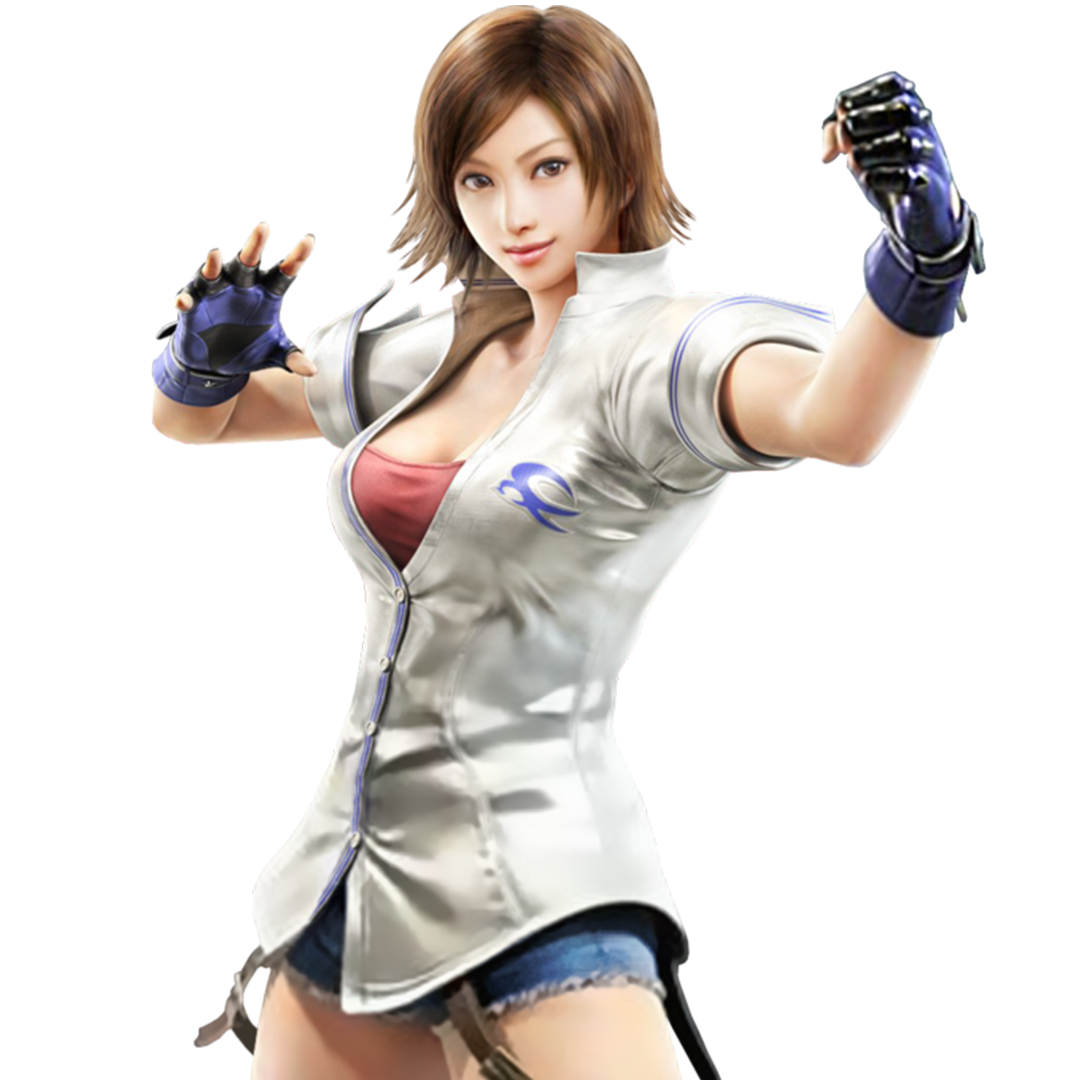
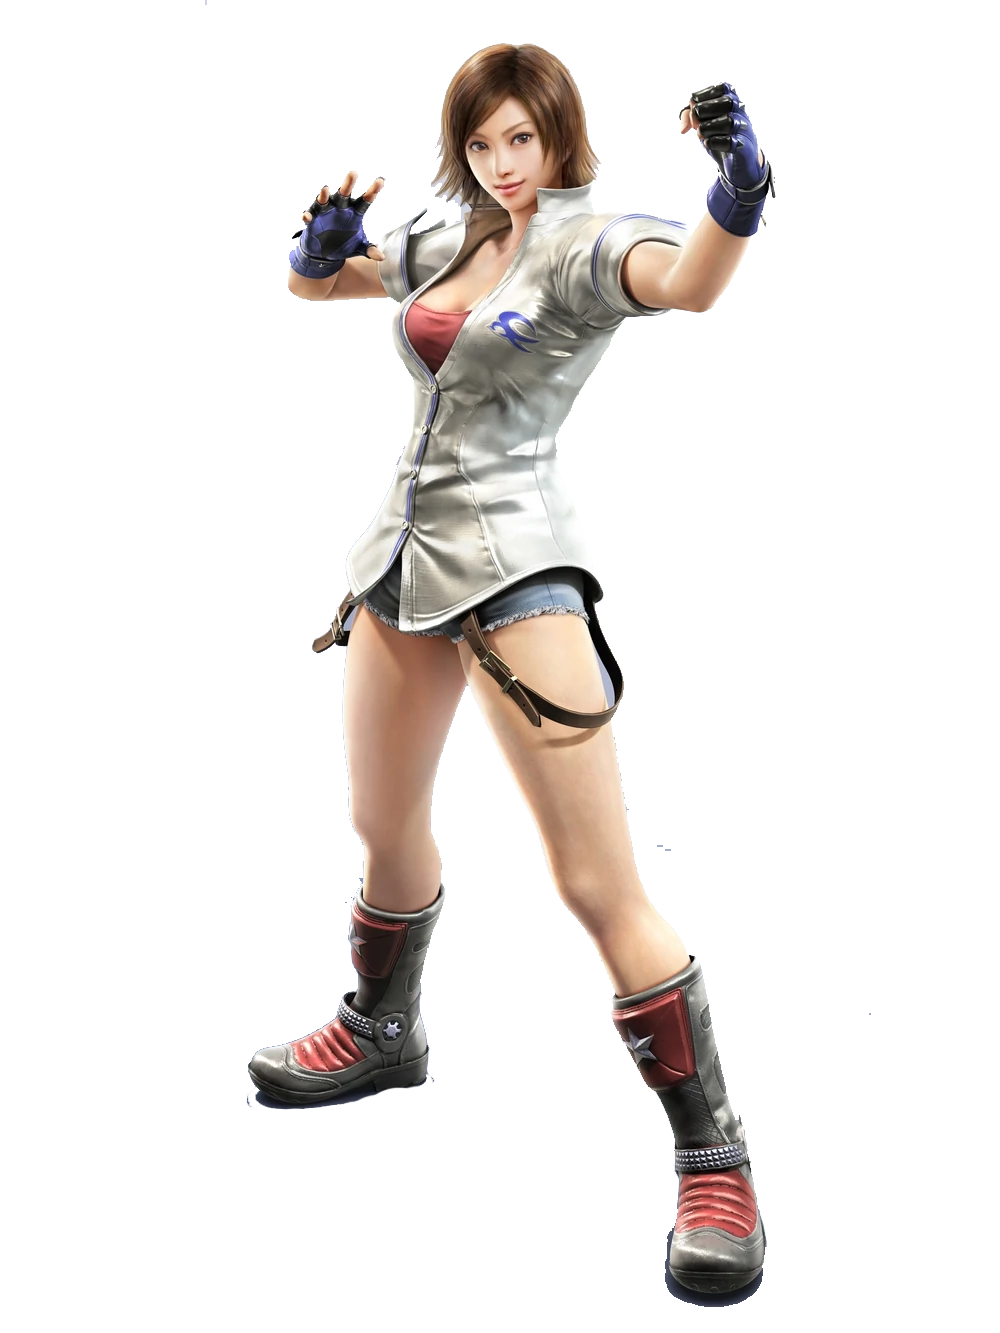
added all pictures
Added all image and thumbnails. Fixed Hwoarang's name

diff --git a/src/data/characters.ts b/src/data/characters.ts
@@ -20,104 +20,104 @@ const characters = [
   {
     id: 3,
     name: "Armor King",
-    image: "/images/characters/",
-    thumb: "/images/characters/",
+    image: "/images/characters/armor.png",
+    thumb: "/images/characters/armor_thumb.png",
   },
   {
     id: 4,
     name: "Asuka",
-    image: "/images/characters/",
-    thumb: "/images/characters/",
+    image: "/images/characters/asuka.png",
+    thumb: "/images/characters/asuka_thumb.png",
   },
   {
     id: 5,
     name: "Bob",
-    image: "/images/characters/",
-    thumb: "/images/characters/",
+    image: "/images/characters/bob.png",
+    thumb: "/images/characters/bob_thumb.png",
   },
   {
     id: 6,
     name: "Bryan",
-    image: "/images/characters/",
-    thumb: "/images/characters/",
+    image: "/images/characters/bryan.png",
+    thumb: "/images/characters/bryan_thumb.png",
   },
   {
     id: 7,
     name: "Claudio",
-    image: "/images/characters/",
-    thumb: "/images/characters/",
+    image: "/images/characters/claudio.png",
+    thumb: "/images/characters/claudio_thumb.png",
   },
   {
     id: 8,
     name: "Devil Jin",
-    image: "/images/characters/",
-    thumb: "/images/characters/",
+    image: "/images/characters/devil.png",
+    thumb: "/images/characters/devil_thumb.png",
   },
   {
     id: 9,
     name: "Dragunov",
-    image: "/images/characters/",
-    thumb: "/images/characters/",
+    image: "/images/characters/dragunov.png",
+    thumb: "/images/characters/dragunov_thumb.png",
   },
   {
     id: 10,
     name: "Eddy",
-    image: "/images/characters/",
-    thumb: "/images/characters/",
+    image: "/images/characters/eddy.png",
+    thumb: "/images/characters/eddy_thumb.png",
   },
   {
     id: 11,
     name: "Eliza",
-    image: "/images/characters/",
-    thumb: "/images/characters/",
+    image: "/images/characters/eliza.png",
+    thumb: "/images/characters/eliza_thumb.png",
   },
   {
     id: 12,
     name: "Fahkumram",
-    image: "/images/characters/",
-    thumb: "/images/characters/",
+    image: "/images/characters/fahkumram.png",
+    thumb: "/images/characters/fahkumram_thumb.png",
   },
   {
     id: 13,
     name: "Feng",
-    image: "/images/characters/",
-    thumb: "/images/characters/",
+    image: "/images/characters/feng.png",
+    thumb: "/images/characters/feng_thumb.png",
   },
   {
     id: 14,
     name: "Ganryu",
-    image: "/images/characters/",
-    thumb: "/images/characters/",
+    image: "/images/characters/ganryu.png",
+    thumb: "/images/characters/ganryu_thumb.png",
   },
   {
     id: 15,
     name: "Geese",
-    image: "/images/characters/",
-    thumb: "/images/characters/",
+    image: "/images/characters/geese.png",
+    thumb: "/images/characters/geese_thumb.png",
   },
   {
     id: 16,
     name: "Gigas",
-    image: "/images/characters/",
-    thumb: "/images/characters/",
+    image: "/images/characters/gigas.png",
+    thumb: "/images/characters/gigas_thumb.png",
   },
   {
     id: 17,
     name: "Heihachi",
-    image: "/images/characters/",
-    thumb: "/images/characters/",
+    image: "/images/characters/heihachi.png",
+    thumb: "/images/characters/heihachi_thumb.png",
   },
   {
     id: 18,
-    name: "Hwaorang",
-    image: "/images/characters/",
-    thumb: "/images/characters/",
+    name: "Hwoarang",
+    image: "/images/characters/hwoarang.png",
+    thumb: "/images/characters/hwoarang_thumb.png",
   },
   {
     id: 19,
     name: "Jack-7",
-    image: "/images/characters/",
-    thumb: "/images/characters/",
+    image: "/images/characters/jack-7.png",
+    thumb: "/images/characters/jack-7_thumb.png",
   },
   {
     id: 20,
@@ -128,26 +128,26 @@ const characters = [
   {
     id: 21,
     name: "Josie",
-    image: "/images/characters/",
-    thumb: "/images/characters/",
+    image: "/images/characters/josie.png",
+    thumb: "/images/characters/josie_thumb.png",
   },
   {
     id: 22,
     name: "Julia",
-    image: "/images/characters/",
-    thumb: "/images/characters/",
+    image: "/images/characters/julia.png",
+    thumb: "/images/characters/julia_thumb.png",
   },
   {
     id: 23,
     name: "Katarina",
-    image: "/images/characters/",
-    thumb: "/images/characters/",
+    image: "/images/characters/katarina.png",
+    thumb: "/images/characters/katarina_thumb.png",
   },
   {
     id: 24,
     name: "Kazumi",
-    image: "/images/characters/",
-    thumb: "/images/characters/",
+    image: "/images/characters/kazumi.png",
+    thumb: "/images/characters/kazumi_thumb.png",
   },
   {
     id: 25,
@@ -158,152 +158,152 @@ const characters = [
   {
     id: 26,
     name: "King",
-    image: "/images/characters/",
-    thumb: "/images/characters/",
+    image: "/images/characters/king.png",
+    thumb: "/images/characters/king_thumb.png",
   },
   {
     id: 27,
     name: "Kuma",
-    image: "/images/characters/",
-    thumb: "/images/characters/",
+    image: "/images/characters/kuma.png",
+    thumb: "/images/characters/kuma_thumb.png",
   },
   {
     id: 28,
     name: "Kunimitsu",
-    image: "/images/characters/",
-    thumb: "/images/characters/",
+    image: "/images/characters/kunimitsu.png",
+    thumb: "/images/characters/kunimitsu_thumb.png",
   },
   {
     id: 29,
     name: "Lars",
-    image: "/images/characters/",
-    thumb: "/images/characters/",
+    image: "/images/characters/lars.png",
+    thumb: "/images/characters/lars_thumb.png",
   },
   {
     id: 30,
     name: "Law",
-    image: "/images/characters/",
-    thumb: "/images/characters/",
+    image: "/images/characters/law.png",
+    thumb: "/images/characters/law_thumb.png",
   },
   {
     id: 31,
     name: "Lee",
-    image: "/images/characters/",
-    thumb: "/images/characters/",
+    image: "/images/characters/lee.png",
+    thumb: "/images/characters/lee_thumb.png",
   },
   {
     id: 32,
     name: "Lei",
-    image: "/images/characters/",
-    thumb: "/images/characters/",
+    image: "/images/characters/lei.png",
+    thumb: "/images/characters/lei_thumb.png",
   },
   {
     id: 33,
     name: "Leo",
-    image: "/images/characters/",
-    thumb: "/images/characters/",
+    image: "/images/characters/leo.png",
+    thumb: "/images/characters/leo_thumb.png",
   },
   {
     id: 34,
     name: "Leroy",
-    image: "/images/characters/",
-    thumb: "/images/characters/",
+    image: "/images/characters/leroy.png",
+    thumb: "/images/characters/leroy_thumb.png",
   },
   {
     id: 35,
     name: "Lidia",
-    image: "/images/characters/",
-    thumb: "/images/characters/",
+    image: "/images/characters/lidia.png",
+    thumb: "/images/characters/lidia_thumb.png",
   },
   {
     id: 36,
     name: "Lili",
-    image: "/images/characters/",
-    thumb: "/images/characters/",
+    image: "/images/characters/lili.png",
+    thumb: "/images/characters/lili_thumb.png",
   },
   {
     id: 37,
     name: "Lucky Chloe",
-    image: "/images/characters/",
-    thumb: "/images/characters/",
+    image: "/images/characters/lucky.png",
+    thumb: "/images/characters/lucky_thumb.png",
   },
   {
     id: 38,
     name: "Marduk",
-    image: "/images/characters/",
-    thumb: "/images/characters/",
+    image: "/images/characters/marduck.png",
+    thumb: "/images/characters/marduck_thumb.png",
   },
   {
     id: 39,
     name: "Master Raven",
-    image: "/images/characters/",
-    thumb: "/images/characters/",
+    image: "/images/characters/master.png",
+    thumb: "/images/characters/master_thumb.png",
   },
   {
     id: 40,
     name: "Miguel",
-    image: "/images/characters/",
-    thumb: "/images/characters/",
+    image: "/images/characters/miguel.png",
+    thumb: "/images/characters/miguel_thumb.png",
   },
   {
     id: 41,
     name: "Negan",
-    image: "/images/characters/",
-    thumb: "/images/characters/",
+    image: "/images/characters/negan.png",
+    thumb: "/images/characters/negan_thumb.png",
   },
   {
     id: 42,
     name: "Nina",
-    image: "/images/characters/",
-    thumb: "/images/characters/",
+    image: "/images/characters/nina.png",
+    thumb: "/images/characters/nina_thumb.png",
   },
   {
     id: 43,
     name: "Noctis",
-    image: "/images/characters/",
-    thumb: "/images/characters/",
+    image: "/images/characters/noctis.png",
+    thumb: "/images/characters/noctis_thumb.png",
   },
   {
     id: 44,
     name: "Panda",
-    image: "/images/characters/",
-    thumb: "/images/characters/",
+    image: "/images/characters/panda.png",
+    thumb: "/images/characters/panda_thumb.png",
   },
   {
     id: 45,
     name: "Paul Phoenix",
-    image: "/images/characters/",
-    thumb: "/images/characters/",
+    image: "/images/characters/paul.png",
+    thumb: "/images/characters/paul_thumb.png",
   },
   {
     id: 46,
     name: "Shaheen",
-    image: "/images/characters/",
-    thumb: "/images/characters/",
+    image: "/images/characters/shaheen.png",
+    thumb: "/images/characters/shaheen_thumb.png",
   },
   {
     id: 47,
     name: "Steve Fox",
-    image: "/images/characters/",
-    thumb: "/images/characters/",
+    image: "/images/characters/steve.png",
+    thumb: "/images/characters/steve_thumb.png",
   },
   {
     id: 48,
     name: "XiaoYu Ling",
-    image: "/images/characters/",
-    thumb: "/images/characters/",
+    image: "/images/characters/xiaoyu.png",
+    thumb: "/images/characters/xiaoyu_thumb.png",
   },
   {
     id: 49,
     name: "Yoshimitsu",
-    image: "/images/characters/",
-    thumb: "/images/characters/",
+    image: "/images/characters/yoshimitsu.png",
+    thumb: "/images/characters/yoshimitsu_thumb.png",
   },
   {
     id: 50,
     name: "Zafina",
-    image: "/images/characters/",
-    thumb: "/images/characters/",
+    image: "/images/characters/zafina.png",
+    thumb: "/images/characters/zafina_thumb.png",
   },
 ].map((e) => ({
   ...e,
